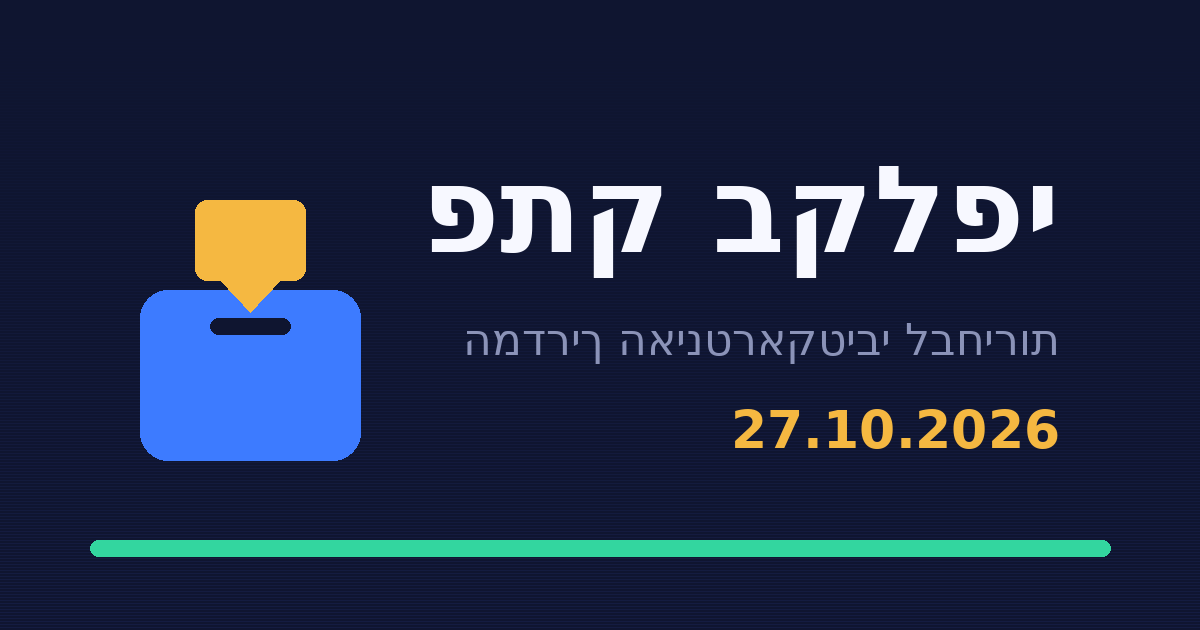
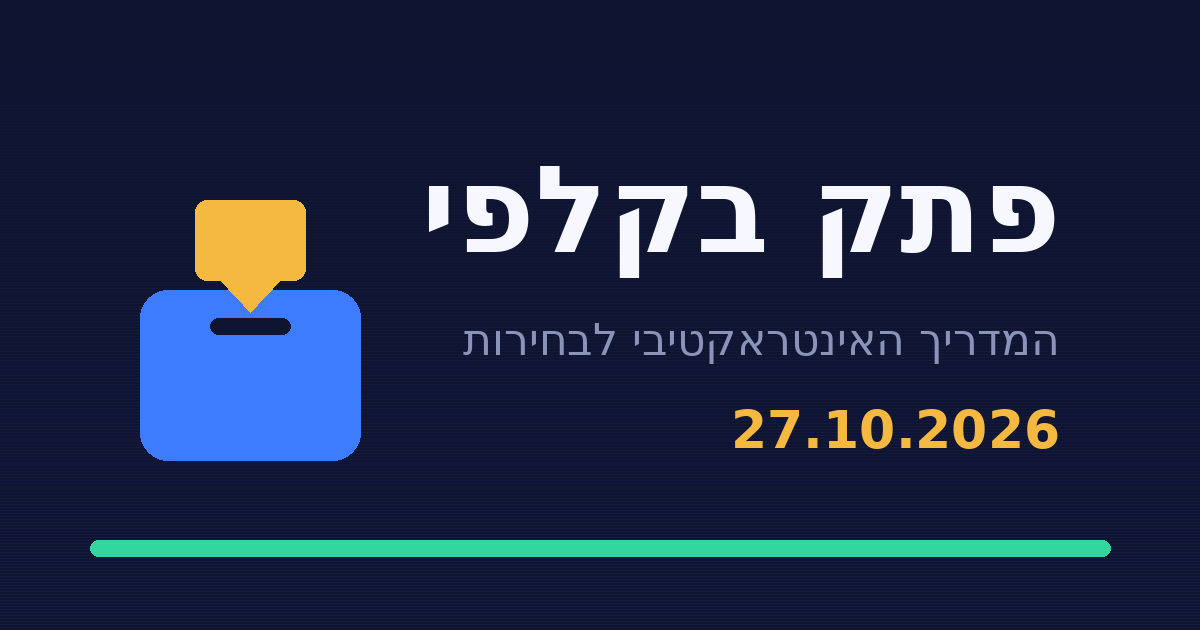
v1.1.1 — fix og-image RTL (raqm double-reversal), add Google Fonts privacy disclosure

Changed region(s): [[0.3392, 0.2413, 0.8942, 0.4524], [0.4008, 0.5127, 0.8633, 0.573]]

diff --git a/index.html b/index.html
@@ -554,7 +554,7 @@
 
 <script>
 /* ================= VERSION ================= */
-const APP_VERSION="1.1";
+const APP_VERSION="1.1.1";
 const APP_UPDATED="2.8.2026";
 const ELECTION_DATE=new Date("2026-10-27T00:00:00");
 
@@ -1771,7 +1771,7 @@ function openDisclaimer(){
     <div class="xsec xbg"><b>📚 עובדות, דעות — וטעויות</b>הכלי משלב עובדות (בהתבסס על תחקירים ופרסומים עיתונאיים גלויים, עם כפתורי 🔎 לבדיקה עצמית בכל כרטיס) לצד פרשנות ודעה — והוא לא מתיימר להיות אמת חד־משמעית. למרות מאמצי הדיוק, ייתכנו טעויות, אי־דיוקים או מידע שהתיישן. מצאתם טעות? ספרו ליוצר — היא תתוקן במהירות ובשמחה. ההצבעה היא החלטתכם בלבד: קראו, הצליבו, והחליטו בעצמכם.</div>
     <div class="xsec xbg"><b>⚖ חזקת החפות</b>כל אזכור של חקירה, חשד או הליך משפטי מתייחס לפרסומים בלבד; חזקת החפות שמורה לכל המוזכרים, וכל הליך יוכרע רק בערכאות המוסמכות. הציטוטים מובאים כלשונם מתוך פרסומים גלויים ולצורכי דיווח וביקורת.</div>
     <div class="xsec xbg"><b>🤖 שקיפות מלאה: נבנה בעזרת AI</b>חלק ניכר מהכלי — הקוד, הניסוחים וריכוז המידע — נוצר בסיוע בינה מלאכותית (Claude של Anthropic), בהנחיית היוצר ובבקרתו. AI עלול לטעות; זו עוד סיבה טובה ללחוץ על כפתורי הבדיקה ולקרוא מקורות ראשוניים. אגב, מיולי 2026 חלה בישראל חובת סימון על תעמולת בחירות שנוצרת ב־AI — אנחנו לא תעמולה מטעם אף גורם, אבל מסמנים בשמחה גם בלי החובה. שקיפות היא לא איום.</div>
-    <div class="xsec xbg"><b>🔒 פרטיות</b>הכלי רץ כולו אצלכם במכשיר: אין לנו שרת שאוסף נתונים, אין עוגיות, ושום תשובה או תוצאה לא נשמרת ולא נשלחת לאף אחד. (האתר מתארח כקובץ סטטי ב־GitHub Pages, שכמו כל ספק אחסון מנהל לוגים טכניים בסיסיים — אך אנחנו לא רואים אותם ולא אוספים דבר.) קישורי החיפוש מובילים לאתרים חיצוניים שבאחריות מפעיליהם.</div>
+    <div class="xsec xbg"><b>🔒 פרטיות</b>הכלי רץ כולו אצלכם במכשיר: אין לנו שרת שאוסף נתונים, אין עוגיות, ושום תשובה או תוצאה לא נשמרת ולא נשלחת לאף אחד. (האתר מתארח כקובץ סטטי ב־GitHub Pages, שכמו כל ספק אחסון מנהל לוגים טכניים בסיסיים — אך אנחנו לא רואים אותם ולא אוספים דבר.) גילוי אחד נוסף: הפונטים נטענים משרתי Google Fonts — בקשה שחושפת לגוגל את כתובת ה־IP שלכם ותו לא, כמו כמעט בכל אתר; בעתיד נטמיע את הפונטים בקובץ עצמו ונסגור גם את זה. קישורי החיפוש מובילים לאתרים חיצוניים שבאחריות מפעיליהם.</div>
     <div class="xsec xbg"><b>🧪 ולא, זה לא מדע</b>השאלון, המצפן והמשחקים הם כלי המחשה חינוכיים — לא סקר, לא מחקר ולא ייעוץ מכל סוג. המשקלות והמיקומים הם הערכות של היוצר, ומוזמנים לחלוק עליהן.</div>
     <p style="text-align:center;color:var(--muted);font-size:11px">גרסה ${APP_VERSION} · עודכן: ${APP_UPDATED}</p>
     <button class="closebtn">סבבה, הבנתי 👍</button>
